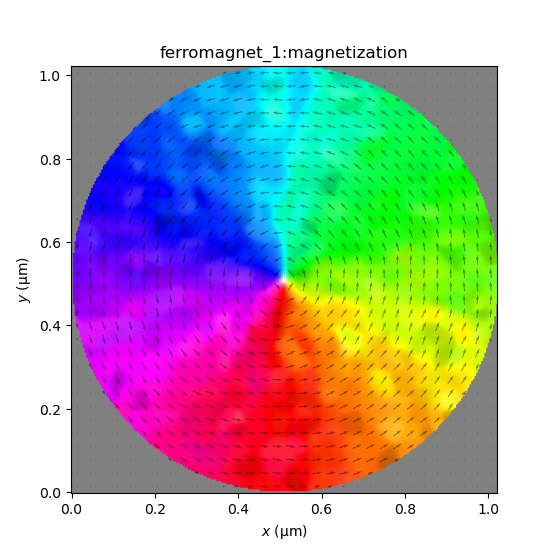
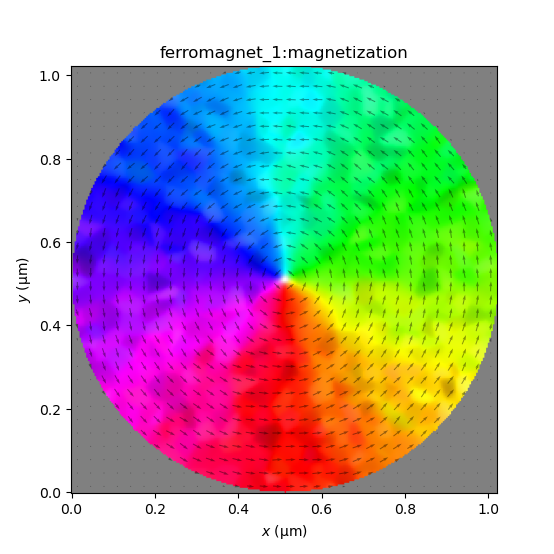
Fix show_regions after 3D upgrade

Changed region(s): [[0.1227, 0.1227, 0.9206, 0.8899]]

diff --git a/mumaxplus/util/show.py b/mumaxplus/util/show.py
@@ -1445,7 +1445,8 @@ def show_regions(magnet,
     boundaries = _np.zeros((1,) + regions.shape, dtype=int)
 
     boundaries[0, 1:, :, :] |= regions[1:, :, :] != regions[:-1, :, :]   # up
-    boundaries[0, :, 1:, :] |= regions[:, 1:, :] != regions[:, :-1, :]   # left
+    boundaries[0, :, 1:, :] |= regions[:, 1:, :] != regions[:, :-1, :]   # forward
+    boundaries[0, :, :, 1:] |= regions[:, :, 1:] != regions[:, :, :-1]   # right
 
     # Reuse _Plotter logic, but no need for quiver map or cbar
     if title is None:
